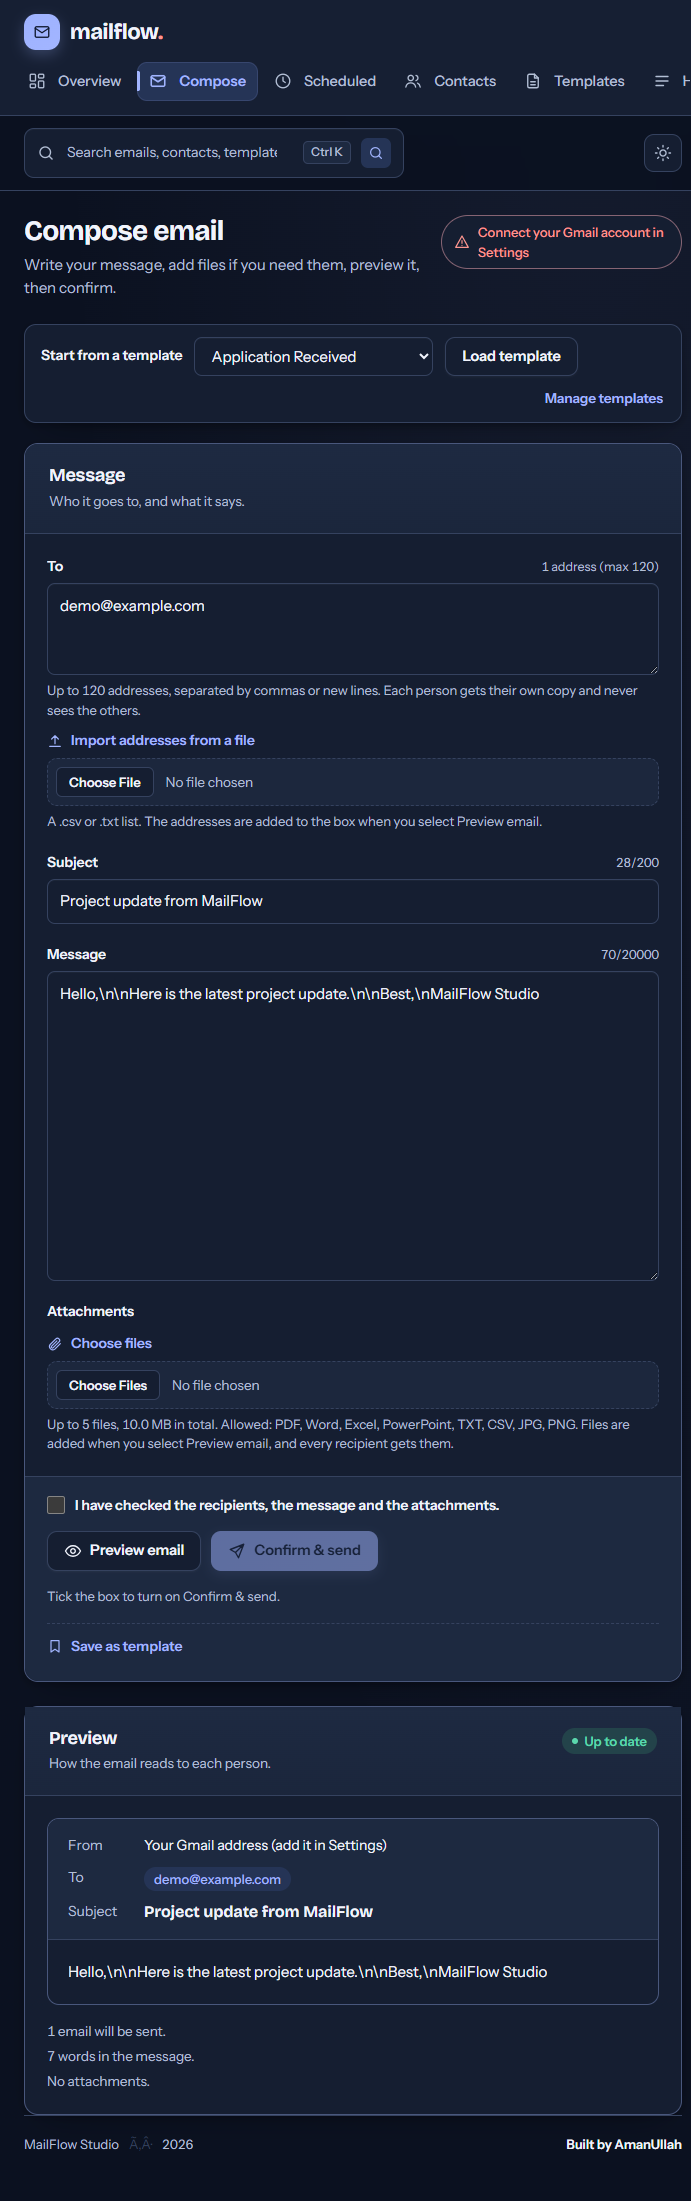
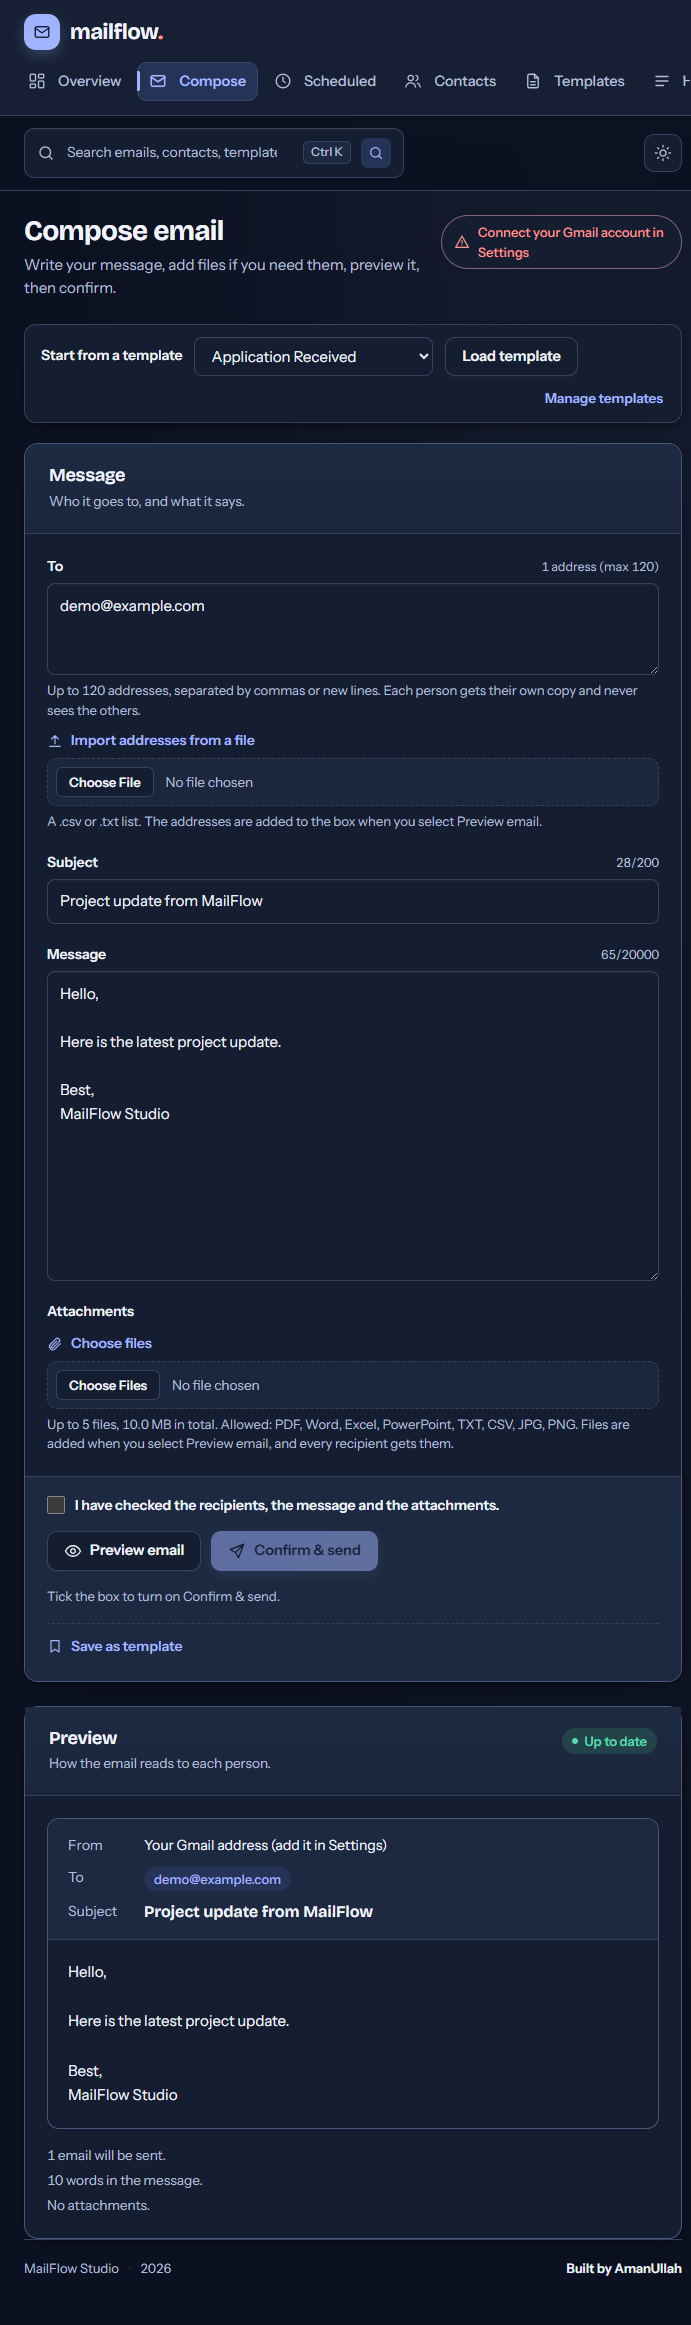
fix: repair template mojibake and demo screenshots

diff --git a/templates/admin.html b/templates/admin.html
@@ -20,7 +20,7 @@
       <dd class="stat-note">Unique browser sessions</dd>
     </div>
     <div class="stat">
-      <dt>Visitor sessions Ã‚Â· 30 days</dt>
+      <dt>Visitor sessions · 30 days</dt>
       <dd class="stat-num">{{ stats.visitors_30d }}</dd>
       <dd class="stat-note">One count per browser each day</dd>
     </div>
@@ -42,7 +42,7 @@
     <div class="stat">
       <dt>Total email attempts</dt>
       <dd class="stat-num">{{ stats.emails_total }}</dd>
-      <dd class="stat-note">{{ stats.emails_sent }} sent Ã‚Â· {{ stats.emails_failed }} failed</dd>
+      <dd class="stat-note">{{ stats.emails_sent }} sent · {{ stats.emails_failed }} failed</dd>
     </div>
     <div class="stat">
       <dt>Scheduled emails</dt>
@@ -60,7 +60,7 @@
     <div class="panel-head">
       <div>
         <h2 id="visits-title">Daily visitor sessions</h2>
-        <p>Last 30 days Ã‚Â· {{ timezone_name }}</p>
+        <p>Last 30 days · {{ timezone_name }}</p>
       </div>
     </div>
     {% set peak_visits = daily_visits|map(attribute="count")|max %}
@@ -80,7 +80,7 @@
     <div class="panel-head">
       <div>
         <h2 id="email-activity-title">Email activity</h2>
-        <p>Successes and failures over the last 30 days Ã‚Â· {{ timezone_name }}</p>
+        <p>Successes and failures over the last 30 days · {{ timezone_name }}</p>
       </div>
     </div>
     {% set peak_email_sent = daily_email_activity|map(attribute='sent')|list|max|default(0) %}
@@ -137,7 +137,7 @@
         <li>
           <span class="admin-user-copy">
             <strong>{{ user.full_name }}</strong>
-            <small>{{ user.email }}{% if user.email.casefold() in bootstrap_admin_emails %} Ã‚Â· Primary admin{% else %} Ã‚Â· Verified grant{% endif %}</small>
+            <small>{{ user.email }}{% if user.email.casefold() in bootstrap_admin_emails %} · Primary admin{% else %} · Verified grant{% endif %}</small>
           </span>
           {% for grant in admin_grants if grant.email.casefold() == user.email.casefold() %}
           <form method="post" action="{{ url_for('admin.admin_revoke', grant_id=grant.id) }}">
@@ -175,7 +175,7 @@
         <li>
           <span class="admin-user-copy">
             <strong>{{ user.full_name }}</strong>
-            <small>{{ user.email }} Ã‚Â· Joined {{ user.created_at|local_time("%d %b %Y") }}</small>
+            <small>{{ user.email }} · Joined {{ user.created_at|local_time("%d %b %Y") }}</small>
           </span>
           <span class="admin-user-state">
             {% if has_admin_access %}<span class="pill pill-admin">Admin</span>{% endif %}

diff --git a/templates/search.html b/templates/search.html
@@ -56,7 +56,7 @@
         {% for item in results.emails %}
         <li class="search-result">
           <span class="search-result-icon"><svg class="icon" aria-hidden="true"><use href="#i-mail"/></svg></span>
-          <span class="search-result-copy"><strong>{{ item.subject }}</strong><small>{{ item.recipient }} Ã‚Â· {{ item.sent_at|local_time("%d %b %Y, %I:%M %p") }}</small></span>
+          <span class="search-result-copy"><strong>{{ item.subject }}</strong><small>{{ item.recipient }} · {{ item.sent_at|local_time("%d %b %Y, %I:%M %p") }}</small></span>
           {% set kind = item.status|lower if item.status|lower in ("sent", "failed", "scheduled") else "other" %}
           <span class="badge badge-{{ kind }}">{{ item.status|capitalize }}</span>
         </li>
@@ -75,7 +75,7 @@
         {% for item in results.scheduled %}
         <li class="search-result">
           <span class="search-result-icon"><svg class="icon" aria-hidden="true"><use href="#i-clock"/></svg></span>
-          <span class="search-result-copy"><strong>{{ item.subject }}</strong><small>{{ item.recipient }} Ã‚Â· {{ item.scheduled_for|local_time("%d %b %Y, %I:%M %p") }}</small></span>
+          <span class="search-result-copy"><strong>{{ item.subject }}</strong><small>{{ item.recipient }} · {{ item.scheduled_for|local_time("%d %b %Y, %I:%M %p") }}</small></span>
           {% set kind = "scheduled" if item.status in ("scheduled", "sending") else item.status|lower %}
           <span class="badge badge-{{ kind }}">{{ item.status|capitalize }}</span>
         </li>
@@ -94,7 +94,7 @@
         {% for item in results.templates %}
         <li class="search-result">
           <span class="search-result-icon"><svg class="icon" aria-hidden="true"><use href="#i-file"/></svg></span>
-          <span class="search-result-copy"><strong>{{ item.name }}</strong><small>{{ item.subject }} Ã‚Â· {{ item.body|striptags|truncate(100, True, "...") }}</small></span>
+          <span class="search-result-copy"><strong>{{ item.name }}</strong><small>{{ item.subject }} · {{ item.body|striptags|truncate(100, True, "...") }}</small></span>
           <a class="btn btn-quiet" href="{{ url_for('mail.compose', template=item.id) }}">Use template</a>
         </li>
         {% endfor %}

diff --git a/templates/dashboard.html b/templates/dashboard.html
@@ -175,7 +175,7 @@
     {% endif %}
     <ol class="steps checklist">
       <li{% if setup.account_ready %} class="is-done"{% endif %}>
-        <span class="step-no" aria-hidden="true">{{ "Ã¢Å“â€œ" if setup.account_ready else "1" }}</span>
+        <span class="step-no" aria-hidden="true">{{ "✓" if setup.account_ready else "1" }}</span>
         <div>
           <strong>Connect your Gmail account{% if setup.account_ready %}<span class="sr-only"> (done)</span>{% endif %}</strong>
           {% if setup.account_ready %}
@@ -186,7 +186,7 @@
         </div>
       </li>
       <li{% if setup.has_emails %} class="is-done"{% endif %}>
-        <span class="step-no" aria-hidden="true">{{ "Ã¢Å“â€œ" if setup.has_emails else "2" }}</span>
+        <span class="step-no" aria-hidden="true">{{ "✓" if setup.has_emails else "2" }}</span>
         <div>
           <strong>Send your first email{% if setup.has_emails %}<span class="sr-only"> (done)</span>{% endif %}</strong>
           {% if setup.has_emails %}

diff --git a/templates/settings.html b/templates/settings.html
@@ -98,7 +98,7 @@
             <div class="acc-pw">
               <input class="acc-input" id="app_password" name="app_password" type="password"
                      maxlength="256" autocomplete="new-password"
-                     placeholder="{% if user.encrypted_app_password %}Saved Ã¢â‚¬â€ enter a new one only to change it{% else %}Enter your Gmail App Password{% endif %}"
+                     placeholder="{% if user.encrypted_app_password %}Saved — enter a new one only to change it{% else %}Enter your Gmail App Password{% endif %}"
                      {% if not user.encrypted_app_password %}required{% endif %}
                      aria-describedby="app-password-hint">
               <button class="acc-pw-toggle" type="button" data-toggle-password

diff --git a/templates/compose.html b/templates/compose.html
@@ -110,7 +110,7 @@
             <label class="sr-only" for="saved-contact-picker">Choose saved contacts</label>
             <select class="input" id="saved-contact-picker" multiple size="3" aria-describedby="saved-contact-hint">
               {% for contact in contacts %}
-                <option value="{{ contact.email }}">{{ contact.name ~ " Ã¢â‚¬â€ " if contact.name else "" }}{{ contact.email }}</option>
+                <option value="{{ contact.email }}">{{ contact.name ~ " — " if contact.name else "" }}{{ contact.email }}</option>
               {% endfor %}
             </select>
             <button class="btn btn-quiet" type="button" id="add-saved-contacts" data-target="recipient">Add selected</button>

diff --git a/templates/scheduled.html b/templates/scheduled.html
@@ -43,7 +43,7 @@
           <label class="sr-only" for="saved-contact-picker">Choose saved contacts</label>
           <select class="acc-input" id="saved-contact-picker" multiple size="3" aria-describedby="saved-contact-hint">
             {% for contact in contacts %}
-              <option value="{{ contact.email }}">{{ contact.name ~ " Ã¢â‚¬â€ " if contact.name else "" }}{{ contact.email }}</option>
+              <option value="{{ contact.email }}">{{ contact.name ~ " — " if contact.name else "" }}{{ contact.email }}</option>
             {% endfor %}
           </select>
           <button class="btn btn-quiet" type="button" id="add-saved-contacts" data-target="scheduled-recipient">Add selected</button>

diff --git a/templates/contacts.html b/templates/contacts.html
@@ -74,7 +74,7 @@
           <tbody>
             {% for contact in contacts %}
             <tr>
-              <td>{{ contact.name or "Ã¢â‚¬â€" }}</td>
+              <td>{{ contact.name or "—" }}</td>
               <td class="manage-email">{{ contact.email }}</td>
               <td class="manage-action">
                 <form method="post" action="{{ url_for('dashboard.delete_contact', contact_id=contact.id) }}">

diff --git a/templates/base.html b/templates/base.html
@@ -139,7 +139,7 @@
 
             <footer class="site-foot" aria-label="Application footer">
                 <span>MailFlow Studio</span>
-                <span class="site-foot-sep">Ã‚Â·</span>
+                <span class="site-foot-sep">·</span>
                 <span>{{ year }}</span>
                 <span class="site-foot-brand">Built by AmanUllah</span>
             </footer>
